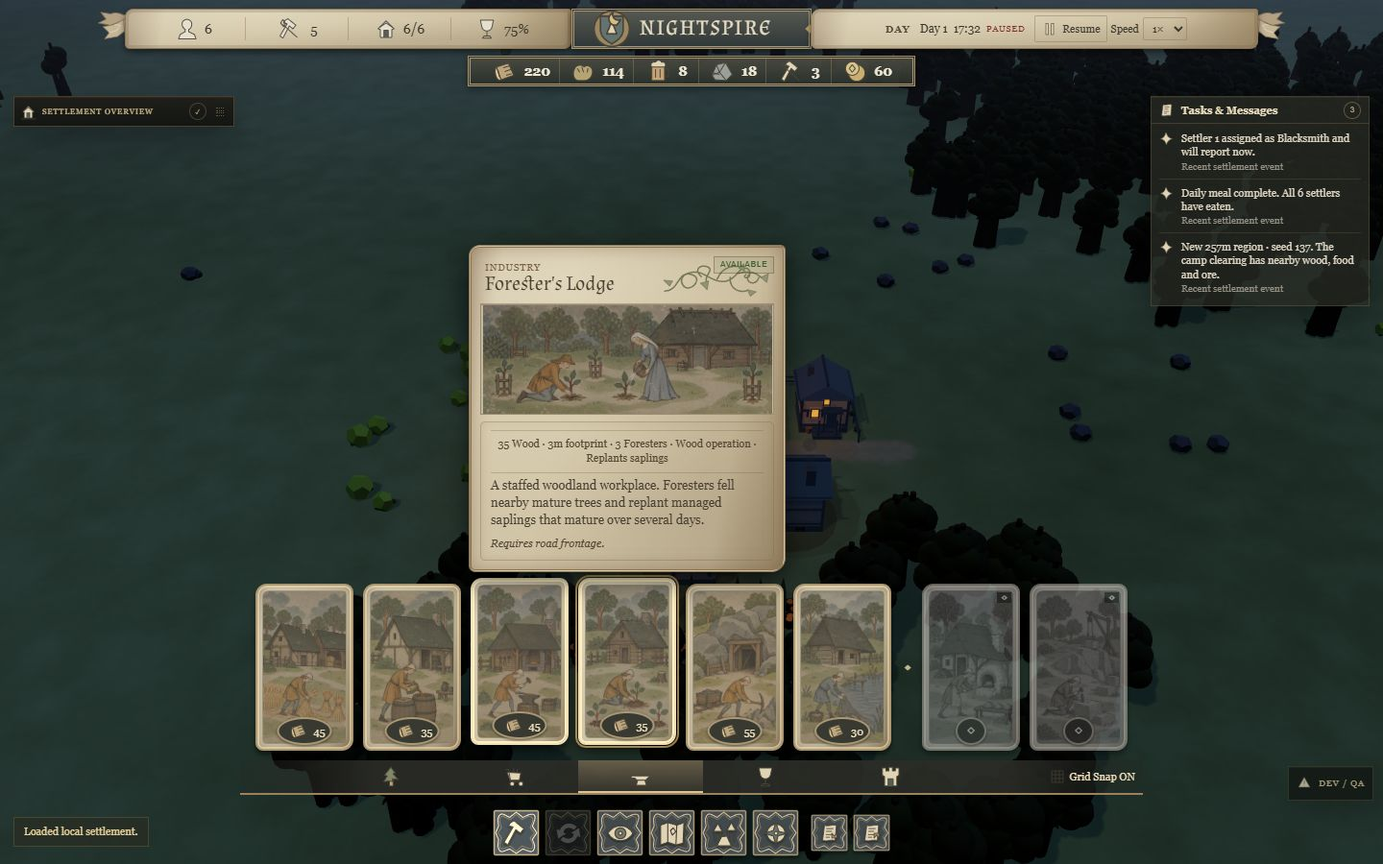
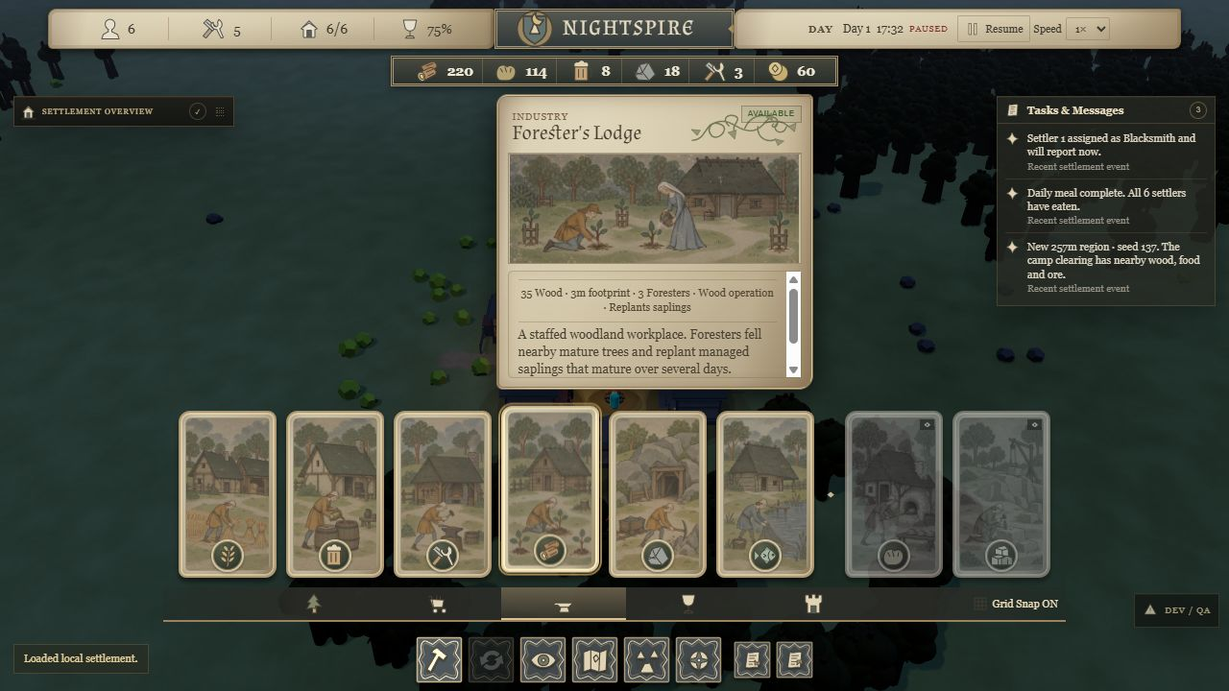
fix: show output and service emblems on construction cards

diff --git a/src/game/ui/ManuscriptAssets.css b/src/game/ui/ManuscriptAssets.css
@@ -126,6 +126,27 @@
 .medieval-hud [data-ui-asset="service:safety"] { background-image: url('../../../assets/ui/manuscript/icon/safety.svg'); background-size: contain; background-position: center; background-repeat: no-repeat; background-color: transparent; border: 0; box-shadow: none; }
 .medieval-hud [data-ui-asset="service:recreation"] { background-image: url('../../../assets/ui/manuscript/icon/recreation.svg'); background-size: contain; background-position: center; background-repeat: no-repeat; background-color: transparent; border: 0; box-shadow: none; }
 .medieval-hud [data-ui-asset="service:agriculture"] { background-image: url('../../../assets/ui/manuscript/icon/agriculture.svg'); background-size: contain; background-position: center; background-repeat: no-repeat; background-color: transparent; border: 0; box-shadow: none; }
+.medieval-hud [data-icon-slot="catalog-wood"] { background-image: url('../../../assets/ui/manuscript/icon/wood.svg'); background-size: contain; background-position: center; background-repeat: no-repeat; background-color: transparent; border: 0; box-shadow: none; }
+.medieval-hud [data-icon-slot="catalog-food"] { background-image: url('../../../assets/ui/manuscript/icon/food.svg'); background-size: contain; background-position: center; background-repeat: no-repeat; background-color: transparent; border: 0; box-shadow: none; }
+.medieval-hud [data-icon-slot="catalog-ale"] { background-image: url('../../../assets/ui/manuscript/icon/ale.svg'); background-size: contain; background-position: center; background-repeat: no-repeat; background-color: transparent; border: 0; box-shadow: none; }
+.medieval-hud [data-icon-slot="catalog-ore"] { background-image: url('../../../assets/ui/manuscript/icon/ore.svg'); background-size: contain; background-position: center; background-repeat: no-repeat; background-color: transparent; border: 0; box-shadow: none; }
+.medieval-hud [data-icon-slot="catalog-tools"] { background-image: url('../../../assets/ui/manuscript/icon/tools.svg'); background-size: contain; background-position: center; background-repeat: no-repeat; background-color: transparent; border: 0; box-shadow: none; }
+.medieval-hud [data-icon-slot="catalog-fish"] { background-image: url('../../../assets/ui/manuscript/icon/fish.svg'); background-size: contain; background-position: center; background-repeat: no-repeat; background-color: transparent; border: 0; box-shadow: none; }
+.medieval-hud [data-icon-slot="catalog-agriculture"] { background-image: url('../../../assets/ui/manuscript/icon/agriculture.svg'); background-size: contain; background-position: center; background-repeat: no-repeat; background-color: transparent; border: 0; box-shadow: none; }
+.medieval-hud [data-icon-slot="catalog-housing"] { background-image: url('../../../assets/ui/manuscript/icon/housing.svg'); background-size: contain; background-position: center; background-repeat: no-repeat; background-color: transparent; border: 0; box-shadow: none; }
+.medieval-hud [data-icon-slot="catalog-storage"] { background-image: url('../../../assets/ui/manuscript/icon/storage.svg'); background-size: contain; background-position: center; background-repeat: no-repeat; background-color: transparent; border: 0; box-shadow: none; }
+.medieval-hud [data-icon-slot="catalog-trade"] { background-image: url('../../../assets/ui/manuscript/icon/trade.svg'); background-size: contain; background-position: center; background-repeat: no-repeat; background-color: transparent; border: 0; box-shadow: none; }
+.medieval-hud [data-icon-slot="catalog-recreation"] { background-image: url('../../../assets/ui/manuscript/icon/recreation.svg'); background-size: contain; background-position: center; background-repeat: no-repeat; background-color: transparent; border: 0; box-shadow: none; }
+.medieval-hud [data-icon-slot="catalog-fire"] { background-image: url('../../../assets/ui/manuscript/icon/fire.svg'); background-size: contain; background-position: center; background-repeat: no-repeat; background-color: transparent; border: 0; box-shadow: none; }
+.medieval-hud [data-icon-slot="catalog-safety"] { background-image: url('../../../assets/ui/manuscript/icon/safety.svg'); background-size: contain; background-position: center; background-repeat: no-repeat; background-color: transparent; border: 0; box-shadow: none; }
+.medieval-hud [data-icon-slot="catalog-defense"] { background-image: url('../../../assets/ui/manuscript/icon/defense.svg'); background-size: contain; background-position: center; background-repeat: no-repeat; background-color: transparent; border: 0; box-shadow: none; }
+.medieval-hud [data-icon-slot="catalog-road"] { background-image: url('../../../assets/ui/manuscript/icon/road.svg'); background-size: contain; background-position: center; background-repeat: no-repeat; background-color: transparent; border: 0; box-shadow: none; }
+.medieval-hud [data-icon-slot="catalog-stone"] { background-image: url('../../../assets/ui/manuscript/icon/stone.svg'); background-size: contain; background-position: center; background-repeat: no-repeat; background-color: transparent; border: 0; box-shadow: none; }
+.medieval-hud [data-icon-slot="catalog-water"] { background-image: url('../../../assets/ui/manuscript/icon/water.svg'); background-size: contain; background-position: center; background-repeat: no-repeat; background-color: transparent; border: 0; box-shadow: none; }
+.medieval-hud [data-icon-slot="catalog-faith"] { background-image: url('../../../assets/ui/manuscript/icon/faith.svg'); background-size: contain; background-position: center; background-repeat: no-repeat; background-color: transparent; border: 0; box-shadow: none; }
+.medieval-hud [data-icon-slot="catalog-hygiene"] { background-image: url('../../../assets/ui/manuscript/icon/hygiene.svg'); background-size: contain; background-position: center; background-repeat: no-repeat; background-color: transparent; border: 0; box-shadow: none; }
+.medieval-hud [data-icon-slot="catalog-civic"] { background-image: url('../../../assets/ui/manuscript/icon/civic.svg'); background-size: contain; background-position: center; background-repeat: no-repeat; background-color: transparent; border: 0; box-shadow: none; }
+.medieval-hud [data-icon-slot="catalog-military"] { background-image: url('../../../assets/ui/manuscript/icon/military.svg'); background-size: contain; background-position: center; background-repeat: no-repeat; background-color: transparent; border: 0; box-shadow: none; }
 .medieval-hud [data-ui-asset="notification:task-raid"] { background-image: url('../../../assets/ui/manuscript/icon/raid.svg'); background-size: contain; background-position: center; background-repeat: no-repeat; background-color: transparent; border: 0; box-shadow: none; }
 .medieval-hud [data-ui-asset="notification:task-housing"] { background-image: url('../../../assets/ui/manuscript/icon/housing.svg'); background-size: contain; background-position: center; background-repeat: no-repeat; background-color: transparent; border: 0; box-shadow: none; }
 .medieval-hud [data-ui-asset="notification:task-food"] { background-image: url('../../../assets/ui/manuscript/icon/food.svg'); background-size: contain; background-position: center; background-repeat: no-repeat; background-color: transparent; border: 0; box-shadow: none; }

diff --git a/src/game/ui/HudCatalog.ts b/src/game/ui/HudCatalog.ts
@@ -7,6 +7,55 @@ import {
   type CatalogPreview,
 } from './HudContent'
 
+export interface CatalogSeal {
+  icon: string
+  label: string
+}
+
+// Presentation only: these describe existing tools and planned catalog entries,
+// without adding resources, services or production rules to the simulation.
+const NON_BUILDING_SEALS: Record<string, CatalogSeal> = {
+  'build-road': { icon: 'road', label: 'Road connection' },
+  'build-residential-plot': { icon: 'housing', label: 'Housing' },
+  'build-field': { icon: 'agriculture', label: 'Food harvest' },
+  'build-granary': { icon: 'food', label: 'Food storage (planned)' },
+  'build-bakery': { icon: 'food', label: 'Food production (planned)' },
+  'build-quarry': { icon: 'stone', label: 'Stone extraction (planned)' },
+  'build-well': { icon: 'water', label: 'Water service (planned)' },
+  'build-chapel': { icon: 'faith', label: 'Faith service (planned)' },
+  'build-bathhouse': { icon: 'hygiene', label: 'Hygiene service (planned)' },
+  'build-manor': { icon: 'civic', label: 'Civic administration (planned)' },
+  'build-watchtower': { icon: 'defense', label: 'Defense (planned)' },
+  'build-barracks': { icon: 'military', label: 'Military (planned)' },
+}
+
+/** Read a producer's actual output, never its input or construction cost. */
+export function catalogSealFor(art: string, buildingType?: BuildingId): CatalogSeal | null {
+  if (!buildingType) return NON_BUILDING_SEALS[art] ?? null
+  const def = BUILDINGS[buildingType]
+  const output = def.production?.outputResource ?? def.resourceOperation?.resource
+  if (output) {
+    const fish = buildingType === 'fishing-hut' && output === 'food'
+    return { icon: fish ? 'fish' : output, label: 'Produces ' + RESOURCES[output].label + (fish ? ' (fish)' : '') }
+  }
+  if (def.agricultureStorageCapacity) return { icon: 'agriculture', label: 'Food harvest' }
+  if (def.foodDistribution) return { icon: def.foodDistribution.resource, label: 'Food distribution' }
+  if (def.housing > 0) return { icon: 'housing', label: 'Housing' }
+  if (def.storage > 0) {
+    const onlyResource = def.storageResources?.length === 1 ? def.storageResources[0] : null
+    return onlyResource
+      ? { icon: onlyResource, label: RESOURCES[onlyResource].label + ' storage' }
+      : { icon: 'storage', label: 'Resource storage' }
+  }
+  if (def.tradeStorageCapacity) return { icon: 'trade', label: 'Trade' }
+  if (def.service) return {
+    icon: buildingType === 'campfire' ? 'fire' : buildingType === 'tavern' ? 'ale' : def.service.need,
+    label: 'Recreation service',
+  }
+  if (def.guardSlots > 0 || def.fortification) return { icon: 'safety', label: 'Defense' }
+  return null
+}
+
 export function catalogPreviewFor(card: HTMLButtonElement): CatalogPreview | null {
   const buildingType = card.dataset.buildingType as BuildingId | undefined
   if (buildingType) {
@@ -49,20 +98,24 @@ export function catalogPreviewFor(card: HTMLButtonElement): CatalogPreview | nul
   return null
 }
 
-/** Static shelf dressing. Costs come from the same definitions as placement. */
+/** Static output/category seals. Construction costs remain in hover previews. */
 export function decorateCatalogCards(element: HTMLElement): void {
   for (const card of element.querySelectorAll<HTMLButtonElement>('.build-card')) {
     const name = card.querySelector('.build-name')?.textContent ?? ''
     card.setAttribute('aria-label', name + (card.classList.contains('is-planned') ? ' (planned)' : ''))
-    card.title = name + (card.title ? ' · ' + card.title : '')
     const type = card.dataset.buildingType as BuildingId | undefined
-    const cost = type ? BUILDINGS[type].buildCost.wood : card.dataset.action === 'residential-plot' ? BUILDINGS.house.buildCost.wood : null
+    const art = card.querySelector<HTMLElement>('[data-art-slot]')?.dataset.artSlot ?? ''
+    const seal = catalogSealFor(art, type)
+    card.title = name + (card.title ? ' · ' + card.title : '') + (seal ? ' · ' + seal.label : '')
+    if (!seal) continue
     const badge = document.createElement('span')
     badge.className = 'card-seal'
+    badge.title = seal.label
     badge.setAttribute('aria-hidden', 'true')
-    badge.innerHTML = cost !== null
-      ? '<span data-icon-slot="resource-wood"></span><b>' + cost + '</b>'
-      : '<b>' + (card.classList.contains('is-planned') ? '◇' : card.dataset.action === 'field' ? '❧' : '⌁') + '</b>'
+    // A description exposes the meaning without changing the card's name or
+    // making its decorative icon an extra keyboard/screen-reader stop.
+    card.setAttribute('aria-description', seal.label)
+    badge.innerHTML = '<span data-icon-slot="catalog-' + seal.icon + '"></span>'
     card.append(badge)
   }
 }

diff --git a/src/game/ui/MedievalHud.css b/src/game/ui/MedievalHud.css
@@ -135,9 +135,8 @@
 .medieval-hud [data-ui-asset="building-header:pleasure-house"] { background-position: 70% center; }
 .medieval-hud .build-card.is-unaffordable:not(.is-planned)::before { content: none; }
 .medieval-hud .build-name { position: absolute; width: 1px; height: 1px; overflow: hidden; clip-path: inset(50%); padding: 0; }
-.medieval-hud .card-seal { position: absolute; bottom: 4px; left: 50%; transform: translateX(-50%); min-width: 32px; height: 29px; display: flex; align-items: center; justify-content: center; gap: 1px; padding: 2px 5px; border: 2px solid #b59d70; border-radius: 50%; background: #30352b; color: #eee0bc; box-shadow: 0 1px 3px #0008; }
-.medieval-hud .card-seal span { width: 19px; height: 19px; background-size: contain; background-repeat: no-repeat; background-position: center; }
-.medieval-hud .card-seal b { font: normal 11px Georgia, serif; }
+.medieval-hud .card-seal { position: absolute; bottom: 4px; left: 50%; transform: translateX(-50%); width: 34px; height: 34px; display: flex; align-items: center; justify-content: center; padding: 2px; border: 2px solid #b59d70; border-radius: 50%; background: #30352b; box-shadow: 0 1px 3px #0008; }
+.medieval-hud .card-seal span { flex: none; width: 26px; height: 26px; background-size: contain; background-repeat: no-repeat; background-position: center; }
 .medieval-hud .build-card small { display: none; }
 .medieval-hud .build-card::after { content: none; }
 .medieval-hud .build-card.is-planned { opacity: .65; }

diff --git a/src/game/ui/ManuscriptHud.css b/src/game/ui/ManuscriptHud.css
@@ -61,7 +61,11 @@
 .medieval-hud .build-preview-requirement { font-style: italic; }
 .medieval-hud .build-preview-meta { text-align: center; padding-bottom: 6px; }
 .medieval-hud .ui-crest-slot { filter: none; background-size: contain; }
-.medieval-hud .card-seal { border-color: #ab9976; background-color: #383a31; }
+.medieval-hud .card-seal {
+  border-color: #d2c3a0;
+  background: radial-gradient(circle at 35% 25%, #59604b, #30382d 75%);
+  box-shadow: inset 0 0 0 1px #84785a, 0 1px 3px #0008;
+}
 .medieval-hud .settlement-stat i { filter: sepia(.25) saturate(.45); }
 .medieval-hud .resource-chip .ui-icon-slot { filter: none; }
 .medieval-hud .dock-button, .medieval-hud .dock-utility {

diff --git a/docs/MANUSCRIPT_ART.md b/docs/MANUSCRIPT_ART.md
@@ -9,7 +9,9 @@ Every one of the **28 live and planned catalog entries** now has two independent
 - **Portrait card:** whole building above, worker/activity below, one continuous scene that fills the construction card. No overlapping crops or pasted halves.
 - **Wide scene:** an 8:3 building/activity painting shared by hover previews and clicked-building windows.
 
-This follows the user's revised instruction to create separate small and large artwork. House aliases Residential Plot. Tiny title thumbnails crop the building area of the portrait card. The ten existing portraits and 38 original SVG emblems are retained. Planned cards remain disabled; paintings do not unlock gameplay.
+This follows the user's revised instruction to create separate small and large artwork. House aliases Residential Plot. Tiny title thumbnails crop the building area of the portrait card. The ten existing portraits are retained. There are now 46 original SVG emblems, including eight new category symbols and clearer wood, tools and grain drawings. Planned cards remain disabled; paintings do not unlock gameplay.
+
+Construction-card seals are round 34px medallions with a 26px symbol, pale parchment rim and muted green background. They describe output or service: Forester logs, Mine ore, Fisherman fish/Food, Blacksmith tools, Brewery ale, Farmhouse grain, storage crate, trade cart, housing and defense. Producer meanings come from the actual building definitions, rather than wood construction costs. Service cards describe their function without claiming production; Tavern uses a mug for recreation. Planned categories include stone, water, faith, hygiene, civic and military pictographs, with planned labels retained. Card titles and accessible descriptions explain each seal. Construction costs remain in the hover panel.
 
 Each painting has its own source file. There are no shared atlas rows, so Mine/Fisherman's Hut cannot inherit fragments of a neighboring illustration. Cards use proportion-preserving cover scaling; wide scenes display their full authored aspect. Short windows scroll the preview rather than squeezing it into a thin strip. Authored colors are displayed without a second saturation/brightness correction; planned cards retain their existing muted state.
 
@@ -39,15 +41,17 @@ Pillow only crops, resizes and encodes the generated output; it does not repaint
 
 ## Budget and remaining limits
 
-The 56 building paintings, ten portraits and emblems total **1,411,036 bytes (1.35 MiB)**, excluding font/decorative trim. The largest file is 44,180 bytes. Tests cap this inventory at **2 MiB total and 64 KiB per file**. The larger inventory replaces the previous 0.93 MiB single-scene set. Browser caching reuses the wide file across previews and inspectors. There are no runtime image-generation calls, new Three.js objects, per-agent artwork controllers or world-rendering changes.
+The 56 building paintings, ten portraits and emblems total **1,414,127 bytes (1.35 MiB)**, excluding font/decorative trim. The seal correction adds 3,091 bytes to this inventory. The largest file is 44,180 bytes. Tests cap this inventory at **2 MiB total and 64 KiB per file**. The larger inventory replaces the previous 0.93 MiB single-scene set. Browser caching reuses the wide file across previews and inspectors. There are no runtime image-generation calls, new Three.js objects, per-agent artwork controllers or world-rendering changes.
 
-Runtime wide paintings are 640×240; high-DPI displays can expose their modest resolution. Cover cropping in the shortest cards removes some peripheral scene area, bounded below 25% by the fit tests. Important subjects were composed away from the edges, but visual quality remains subject to user review. The retained portraits/emblems have not been repainted in this building-art redo. Legacy fallback art remains in the base stylesheet/repository and is still emitted by Vite, adding unused asset weight. The pre-existing large JavaScript chunk warning and world-rendering limits remain; no new settlement performance envelope is claimed.
+Runtime wide paintings are 640×240; high-DPI displays can expose their modest resolution. Cover cropping in the shortest cards removes some peripheral scene area, bounded below 25% by the fit tests. Important subjects were composed away from the edges, but visual quality remains subject to user review. The retained portraits have not been repainted in this building-art redo. Legacy fallback art remains in the base stylesheet/repository and is still emitted by Vite, adding unused asset weight. The pre-existing large JavaScript chunk warning and world-rendering limits remain; no new settlement performance envelope is claimed.
 
 ## Verification and visual review
 
-Install, architecture check, strict typecheck, **207 tests** and production build pass. Tests verify live/planned coverage, 56 distinct sources, exact image dimensions, responsive card coverage, title/portrait crop proportions, dedicated CSS bindings, vector consistency and payload bounds. Existing resize-clamp and QA-town harvest-claim regressions remain. One HUD ResizeObserver re-clamps a growing inspector between the status ribbons and bottom dock; its subscription disconnects on disposal. A regression covers growth and cleanup. No observer exists per building or settler.
+Install, architecture check, strict typecheck, **210 tests** and production build pass. Tests verify live/planned coverage, 56 distinct sources, exact image dimensions, responsive card coverage, title/portrait crop proportions, dedicated CSS bindings, vector consistency and payload bounds. Three seal regressions verify actual producer outputs (including a changed recipe), coverage/bindings across all 28 real catalog cards, planned semantics, service/storage meanings and retained construction costs. Existing resize-clamp and QA-town harvest-claim regressions remain. One HUD ResizeObserver re-clamps a growing inspector between the status ribbons and bottom dock; its subscription disconnects on disposal. A regression covers growth and cleanup. No observer exists per building or settler.
 
 Production browser checks covered all five construction categories, live/planned card bindings, Forester/Mine/Fisherman previews, Blacksmith staffing add/remove, General/People/Advanced, expanded operations and Save → reload → Load with the assignment retained. Responsive views were 800×600, 1280×720, 1440×900 and 1920×1080 CSS pixels. The gallery covered all 28 card/preview/header/title combinations. No production console errors were captured.
+
+The output-seal correction was additionally checked in the rebuilt production game across all five categories, at 1280×720 and 800×600. All eight Industry seals remained circular with their symbols contained inside the cards; Forester hover still reported its 35 Wood construction cost. All 28 gallery seals had loaded symbol bindings and equal width/height. No production console errors were captured during these checks.
 
 For repeatable visual QA, run the development server and open `/ui-art-fit.html`. **All cards** shows the complete inventory. **Compare sizes** shows portrait card, hover artwork, title thumbnail and wide building header side by side; category filters make the set manageable. Portraits & icons shows existing 40px/24px faces and resource/category/service/task/command emblems. The gallery does not start simulation, mutate saves or ship in the production entry.
 

diff --git a/README.md b/README.md
@@ -45,7 +45,7 @@ These mature-service concepts remain art-direction references. The gameplay buil
 
 ## Seeded regional maps
 
-The [medieval HUD](docs/MEDIEVAL_UI.md) uses compact icon/count ribbons, portrait construction cards with cost seals, one category/grid rail and compact illustrated building windows. [Original manuscript artwork](docs/MANUSCRIPT_ART.md) covers all 28 live/planned catalog entries; planned art does not unlock additional buildings. Dedicated tall paintings fill the small cards; hover previews and building headers share a separate wide scene. For artwork fit QA, run the development server and open `/ui-art-fit.html`; it compares every artwork slot without starting gameplay. Hover or focus a card for its name, costs and description. Assign workers below the building illustration, expand Operation & storage under General, and find demolition under Advanced.
+The [medieval HUD](docs/MEDIEVAL_UI.md) uses compact icon/count ribbons, portrait construction cards with output/service emblems, one category/grid rail and compact illustrated building windows. The round seals show logs for Foresters, ore for Mines, fish for Fishers, Tools for Blacksmiths and Ale for Breweries; other cards show their service or storage category. [Original manuscript artwork](docs/MANUSCRIPT_ART.md) covers all 28 live/planned catalog entries; planned art does not unlock additional buildings. Dedicated tall paintings fill the small cards; hover previews and building headers share a separate wide scene. For artwork fit QA, run the development server and open `/ui-art-fit.html`; it compares every artwork slot without starting gameplay. Hover or focus a card for its name, construction costs and description. Assign workers below the building illustration, expand Operation & storage under General, and find demolition under Advanced.
 
 New settlements now start on a seeded 257-cell region. Use **Settlement overview → New region** to choose a seed, Meadows/Woodland, and **129, 257 or 513 cells per side** (one metre per cell). Region view, zoom/pan and the clickable minimap let you explore the expanded playable land. Starting another region first saves your current settlement. The playable valley floor remains flat; distant hills are scenery. See [controls, measured timings, verification and limits](docs/REGIONAL_MAPS.md).
 

diff --git a/docs/MEDIEVAL_UI.md b/docs/MEDIEVAL_UI.md
@@ -39,4 +39,4 @@ Install, architecture check, strict typecheck, full **197-test** suite and produ
 
 At the end of the layout correction, artwork still reused the previous set and placeholders. The subsequent [manuscript art pass](MANUSCRIPT_ART.md) replaces those active bindings with original activity scenes and matching emblems. It adds a scoped ManuscriptHud stylesheet, asset manifest and preparation scripts. Every entry has a portrait card plus a separate wide scene shared by hover and building windows. The existing large production-chunk warning remains.
 
-The combined pass has **207 passing tests**. Production browser checks cover the five construction categories, keyboard previews, full titles in short windows, dedicated art bindings, worker assignment/removal, General/People/Advanced and save → reload → load. A world-anchored inspector stays within the available space on resize or content growth. New screenshots: [construction artwork](qa/ui-manuscript-construction.png), [building artwork and portraits](qa/ui-manuscript-building.png).
+The combined pass has **210 passing tests**. Production browser checks cover the five construction categories, keyboard previews, full titles in short windows, dedicated art bindings, worker assignment/removal, General/People/Advanced and save → reload → load. A world-anchored inspector stays within the available space on resize or content growth. Card circles now show output or service categories; construction costs remain in hover previews. New screenshots: [construction artwork](qa/ui-manuscript-construction.png), [building artwork and portraits](qa/ui-manuscript-building.png).

diff --git a/docs/MILESTONES.md b/docs/MILESTONES.md
@@ -5,12 +5,13 @@
 - [x] 56 independently generated paintings: portrait card and wide scene for every one of the 28 existing/live and planned catalog entries; ten retained portraits
 - [x] Quiet grey-green paint, flat washes and restrained ink outlines directed from the supplied reference
 - [x] Coordinated resource/category/service/task/command emblems, slate frames, parchment trim and local heading font
-- [x] Ten additional regressions; all 207 tests, typecheck, architecture check and production build pass
+- [x] Thirteen additional regressions; all 210 tests, typecheck, architecture check and production build pass
 - [x] Production browser checks across all five categories, preview/title/source reuse, staffing add/remove, building tabs, responsive windows and save/reload/load
 - [x] QA town remains saveable when staging clears a claimed harvest node; carried deliveries preserved
 - [x] Full-frame small cards and proportional wide previews; independent source files eliminate neighboring-art remnants
 - [x] Development-only gallery covers every card, header, title thumbnail, portrait and emblem at the game's sizes
 - [x] Growing inspector content re-clamps above the dock; available height respects the status ribbons
+- [x] Circular output/service emblems across all 28 cards; configured producer outputs, retained hover costs and planned-state coverage tested
 - [ ] Final art-direction approval
 
 See [assets, direction brief, budgets and limits](MANUSCRIPT_ART.md). This pass adds no gameplay milestone or population/performance claim.

diff --git a/docs/DECISIONS.md b/docs/DECISIONS.md
@@ -1,5 +1,9 @@
 # Decisions — M1 settlement loop
 
+## Catalog output and service seals — 2026-10-03
+
+Replace wood-cost badges with one readable output/category pictograph in each construction card's circle. Derive live producer emblems from the existing production/resource-operation definitions; show storage, housing, trade or service functions for buildings that do not produce resources. Fishing uses a fish pictograph while retaining Food as its actual output. Planned-only symbols are UI presentation data and remain explicitly planned. Costs still appear in hover previews. Build the static seals once with the catalog; no simulation fields or per-frame processing are added. Reuse the same original wood/tool/grain icons in resource and service readouts so their meanings stay consistent. See [art budgets and browser checks](MANUSCRIPT_ART.md).
+
 ## Dedicated portrait and wide manuscript artwork — 2026-10-03
 
 Use two checked-in WebP paintings per catalog entry: a tall construction card and a wide scene shared by hover and building windows. The user explicitly changed the earlier shared-image requirement. Independent composition keeps the building, worker and activity readable in both aspect ratios, without stitching two crops or cutting a roof off a landscape scene. Each painting is generated independently, eliminating atlas-row bleed. A manifest owns dimensions, title crops and House aliases; a source map records the selected generation and exact prompt recipe.
